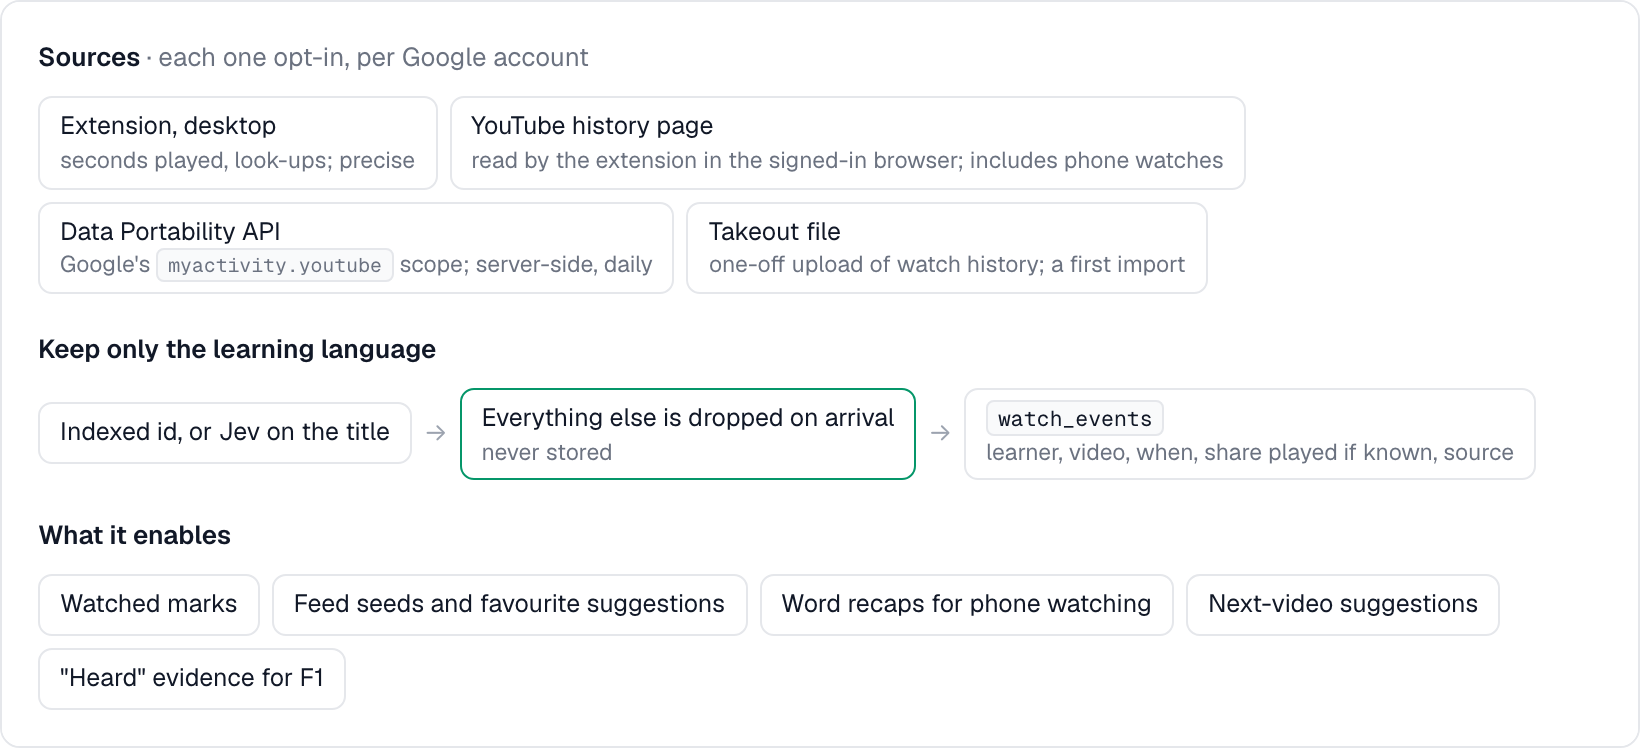
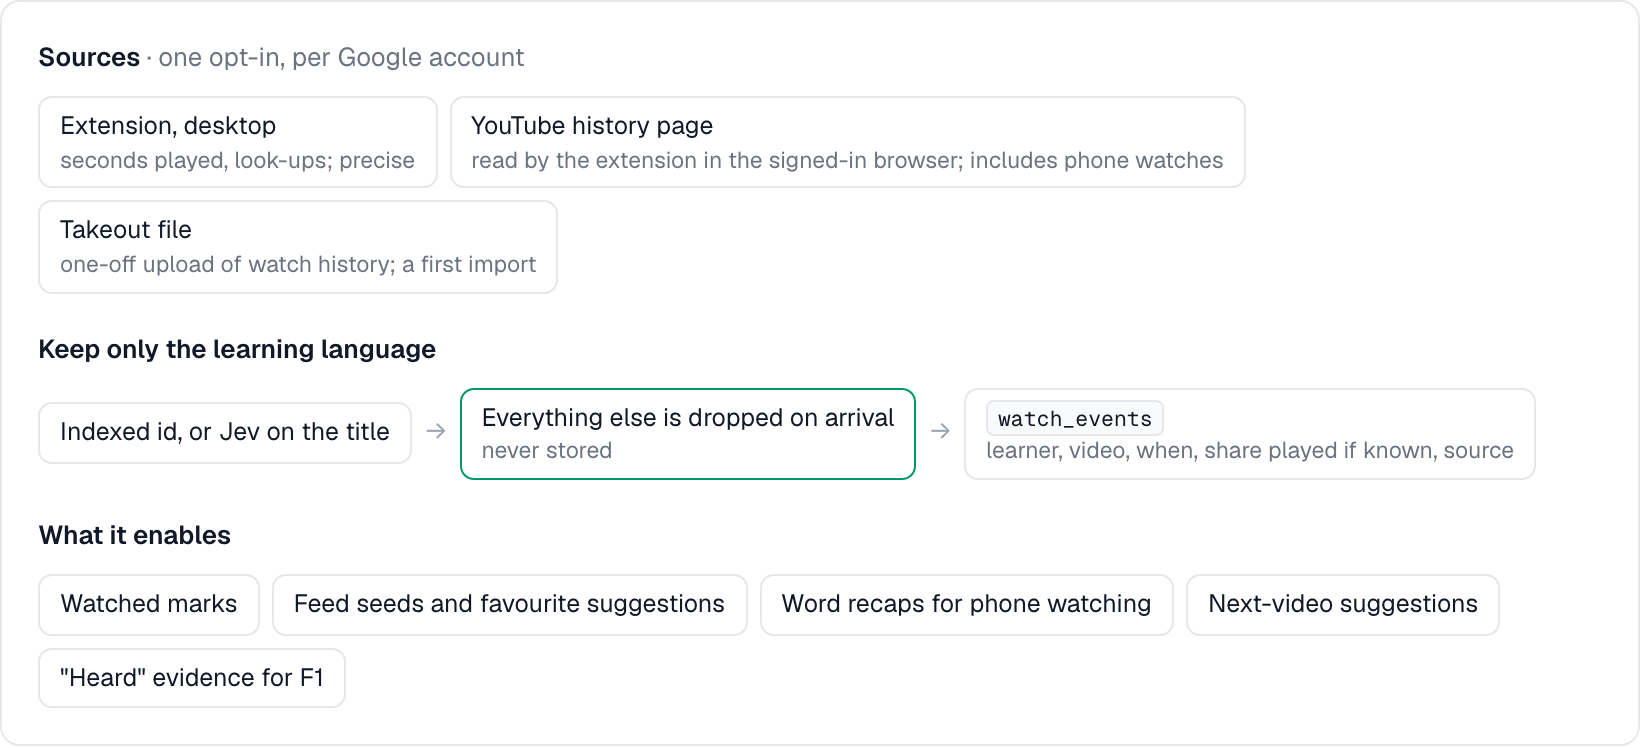
Revise the YouTube plan after the UX audit
- Coverage counts every word: distinct-word coverage falls with video length
  (rank correlation -0.46 to -0.58), every-word coverage doesn't. The
  counts-matrix change is spelled out with its measured cost (22 -> 33 MB,
  ~7 ms) and ships alone in week 1.
- No fit bands for now: badges show heard coverage, lists sort highest first.
- F1's heard evidence comes from exposure logging (PR 109).
- The Data Portability API is ruled out.
- Indexing progress shows on the channel's Langfour tab, not the button.
- Recaps are one row of words and one button.
- Pace: timings are kept from now on (feat/caption-timings).
- F1 and F2 mockups redrawn in the app's style.

diff --git a/docs/plans/youtube-plan.md b/docs/plans/youtube-plan.md
@@ -1,6 +1,6 @@
 # Langfour on YouTube
 
-Status as of 2026-10-31: plan, nothing built. People learn a language on YouTube by watching
+Status as of 2026-11-01: plan, nothing built; revised after the UX audit of this PR. People learn a language on YouTube by watching
 hours of videos they can mostly follow, and they stay for channels they love. This plan makes
 Langfour good at both: it knows which videos you can follow, learns which channels you love,
 and stays out of the way while you watch. Mockups and charts are in `docs/plans/youtube-plan/`.
@@ -52,6 +52,23 @@ for beginners, the people who most need to hear "you can watch this".
 20 picks are 98.8% heard, have a median of 5 new words and run 4.9 minutes. The 95–98% band holds
 over half the corpus for that learner, at a median of 45 new words and 12.9 minutes.
 
+**Why every word, not distinct words.** Distinct-word coverage punishes length: a longer video
+collects more rare words said once, so it scores lower even though each minute is just as easy.
+At every vocabulary size, every-word coverage is the same for short and long videos:
+
+| Learner | Rank correlation with video length: distinct / every word | Shortest quarter of videos | Longest quarter |
+|---|---|---|---|
+| 1,000 words | −0.58 / 0.01 | 75.0% / 88.7% | 62.2% / 88.8% |
+| 3,000 words | −0.46 / −0.02 | 89.8% / 95.7% | 83.2% / 95.5% |
+| 5,000 words | −0.43 / −0.04 | 94.4% / 97.7% | 90.2% / 97.5% |
+
+That is why the app's top picks are short clips. The comprehension thresholds in the research
+(95% to follow, 98% to follow comfortably) are also counted over running words. So the % becomes
+every-word coverage, and "N new" stays a count of *distinct* unknown words, because that is how
+many words there are to learn. One trade-off is that a single unknown word said often weighs heavily: for a 3,000-word
+learner, in 5% of videos one word makes up a quarter or more of what they don't understand. That
+is honest, because they miss it every time, and it is what core words (8) fix.
+
 **With real accounts.** Real learners don't know exactly the top N words, so the same numbers on
 the accounts with real Spanish vocabulary:
 
@@ -80,25 +97,48 @@ Other things that hold today:
 
 ## 1. Known words that stay honest
 
-*Fix the basics · M · needs 2 for the "heard" evidence*
+*Fix the basics · M · ships alone, first*
 
 Every number in Langfour depends on knowing which words you know. Words stuck in "learning" make
 every video look harder than it is, so recommendations come out too easy and the badges discourage.
+The stuck words aren't one account's problem: 15+ accounts have 20–123 of the top 500 words in
+learning, never reviewed.
 
 ![A one-time prompt offering stuck common words as known](youtube-plan/f1-known-words.png)
 
-*A one-time prompt in the extension popup and on the Vocabulary page. Words you've looked up stay
-unticked. The "heard" counts are illustrative; feature 2 is what collects them.*
+*A filter on the Vocabulary page's Learning table, with its checkboxes and the dark pill; the
+extension popup links to it once. Words you've looked up stay unticked. The "heard" counts come from exposure logging: since PR 109 the extension records each
+learning word once per video when its caption is on screen, and once per page in the reader.*
 
 - **One-time cleanup:** learning words in the top 500 by corpus frequency that were never reviewed
   are offered as known.
-- **Ongoing rule:** a learning word heard in 10 or more watched videos without a look-up becomes a
-  suggestion, never an automatic change. Accepting goes through the same path as the MCP's
-  `set_word_status`.
-- **Coverage on words heard:** the matrix stores the count instead of 1. The transcripts already
-  have counts, the number of non-zeros doesn't change, and every percentage in the app becomes the
-  blue line.
+- **Ongoing rule:** a learning word seen in 10 or more videos (`word_events` exposure rows) without
+  a look-up becomes a suggestion, never an automatic change. Accepting goes through the same path
+  as the MCP's `set_word_status`. "Without a look-up" needs look-ups logged, which nothing writes
+  yet.
+- **Onboarding:** suggest a Google account used only for Spanish now (the first lever in 6); it costs copy,
+  not code.
 - The same screen can show the known form-versus-root mismatches (`caía`/`caer`).
+
+**Coverage on words heard.** The matrix stores each word's count instead of 1 (the reasons are in
+section 0). It is not a one-line change, but it stays small and contained in `recommender.py`:
+
+1. Build the matrix as `int16` with counts. Today it is `int8` with `D[i, wid] = 1`, and `+= 1`
+   would overflow: one video says a word 771 times.
+2. Keep a binary view next to it that shares the counts matrix's `indices` and `indptr`, with an
+   `int8` array of ones. `newWords` (distinct unknown words) and `recommend_words_to_learn` (number
+   of videos per word) read the view, so both keep their meaning.
+3. Write `"weights": "counts"` into `document_term_matrix.npz.meta.json`, and require it in both
+   `_try_load_cached_language` and the reuse check in `_create_document_term_matrix`. Today a
+   binary npz with the same shape loads silently.
+4. Repack and upload the corpus in the same release. The tarball carries the transcripts, so an
+   old bundle would rebuild on Koyeb at boot rather than serve wrong numbers, but slowly.
+5. Add a test with a repeated word to `test_recommender.py`.
+
+Measured on the full corpus: memory for the matrix goes from 22.3 MB to about 33 MB (28.6 for the
+counts, 4.8 for the view), and the two products per request take about 7 ms. With `int32` counts,
+memory would be 43 MB. Row and column sums already come back as `int64`, so totals can't
+overflow.
 
 **Measure:** median heard coverage of the videos people finish. With honest data it should sit
 near 95%.
@@ -113,24 +153,36 @@ watching.
 
 ![Watch signal sources, filter and uses](youtube-plan/f2-sources.png)
 
-*Four ways to learn what someone watched, from most precise to most complete. Everything outside
+*Three ways to learn what someone watched, from most precise to most complete. Everything outside
 the learning language is dropped on arrival and never stored.*
 
 | Source | What it gives | Limits |
 |---|---|---|
 | Extension on desktop | Seconds actually played, look-ups | Desktop only |
 | `youtube.com/feed/history`, read by the extension with the learner's own sign-in | Every watch on any device; the red progress bar gives a rough share watched | Runs only when the desktop browser is open |
-| Google's Data Portability API, scope `dataportability.myactivity.youtube` | YouTube activity, server-side, without a desktop | Restricted scope, so Google's app verification; consent lasts 30 or 180 days; one export per 24 h; supported countries still to check |
 | Google Takeout watch-history file | A one-off first import | Manual upload |
 
-The YouTube Data API has returned no watch history since 2016 (the `HL` playlist is empty), so the
-Data Portability API is the only official server-side route.
+The YouTube Data API has returned no watch history since 2016 (the `HL` playlist is empty).
+Google's Data Portability API could fetch history server-side, but it is ruled out: its restricted
+scope needs Google's app review and a yearly security re-check, and consent expires after 30 or
+180 days. So phone watching reaches Langfour only through the history page, whenever the desktop
+browser is open.
 
 ![Per-account approval and a recap of phone watching](youtube-plan/f2-approval-and-recap.png)
 
-*Left: the per-account approval. Right: a recap of phone watching on the Practice page and in the
-extension popup the next day. Kept words go to reviews (or RemNote) with a line from the video as
-context.*
+*Left: the per-account approval. Right: the recap of phone watching, on the Practice page and in
+the extension popup the next day.*
+
+The recap has to be simple and fast: one glance, at most one tap, never a chore.
+
+- One line on what was watched, the new words in a single comma-separated row, and one button that
+  adds them all. Tapping a word drops it. No per-word Keep/Skip, no questions about learning words.
+- Learning words that came up need no decision: they count as exposure, like caption words on
+  desktop.
+- Only words that came up in at least two of the videos, or three times or more, up to 8. With
+  none, there is no recap.
+- Ignoring it is fine. It is replaced the next day, and nothing piles up.
+- Added words go to reviews (or RemNote) with a line from the video as context.
 
 - 70% played on desktop marks a video watched and replaces the manual "Hide & mark as seen".
 - A `watch_events` table: learner, video, watched at, share played when known, source. Own rows
@@ -147,8 +199,10 @@ minutes and leave. Badges answer that before the click, everywhere on YouTube.
 
 ![YouTube search with fit badges](youtube-plan/f3-fit-badges.png)
 
-*Badges show heard coverage and new words, coloured by band: green 95–98%, amber 90–95%, red below
-90%. The Your level chip dims the rest; unindexed videos show "Add to Langfour" on hover.*
+*Badges show heard coverage and new words; unindexed videos show "Add to Langfour" on hover.
+For now there are no bands and no "too easy" state: the higher the number, the more you'll
+understand, and every list sorts highest first. Bands can come back once completion data shows
+where people actually give up.*
 
 - A content-script observer collects video ids from Home, Search, channel pages and the watch-page
   sidebar as they render. One batched call, `POST /api/videos/fit` with up to 50 ids, returns
@@ -172,6 +226,14 @@ it stays private, and Langfour has indexed a median of 10 videos per channel.
 Langfour tab lists channels that learners at your level also favourited. The one-tap question
 appears after a learner's first few videos from a channel.*
 
+The button is a plain toggle: outline when off, filled when on, like today's Bookmark button.
+Indexing progress is shown, but not on the button. The queue will be processed on the server, so a
+favourited channel's videos arrive within hours, and the progress is real feedback that the
+favourite did something. It lives on the channel's Langfour tab, phrased as what the learner gets:
+"34 of 212 videos added · 9 at your level so far". The line updates as videos land and disappears
+once the channel is done. If a channel stalls (no captions, failed downloads), the line drops the
+total rather than showing a number that never moves: "34 videos added".
+
 What a favourite does:
 
 - **For you:** the channel gets the biggest share of your feed (5).
@@ -188,8 +250,17 @@ How a channel is described:
   Spanish videos (`video_quality.py`): A, the grammar level (A1–C1); C, content in the words; D,
   developed thought; E, transferable language. A channel's profile is the median of its videos, so
   it covers the whole corpus with no backfill.
+- **Pace, roughly, from what is stored:** words per minute of video (transcript words divided by
+  the video's `length`). It works for every video, captioned or Whispered, and the corpus median is
+  150. It is a rough number: neither path keeps timings. Caption cues arrive with `tStartMs`, but
+  `json3_text` keeps only the text, and Whisper returns plain text per piece. So intros, music and
+  pauses all count as slow speech. Good enough for a fast/slow hint for the existing corpus.
+  Transcripts ingested from now on keep their timings (`cues` and `cueSource` in the processed
+  JSON, on branch `feat/caption-timings`): a caption track's own cues, or Whisper's 15–28 s
+  pieces. Speaking rate is words over the time the cues cover, with overlaps merged, since
+  automatic tracks roll. The same cues give clip times for moment cards.
 - **From learners:** "Yes, clear / Too fast / Hard accent", asked after a learner's first few
-  videos from a channel. The only signal on pronunciation and pace, which a transcript can't show.
+  videos from a channel. The only signal on pronunciation and accent.
 - **Country:** from `channels.list` (1 quota unit).
 
 **Measure:** share of learners with at least one favourite after two weeks, and how much of their
@@ -282,14 +353,14 @@ channel opens up.
 ![Core words card for a channel](youtube-plan/f8-core-words.png)
 
 *Real numbers: a learner with 2,449 known words and the 13 indexed videos from BasiCH. The bars
-count videos they can follow (90% or more heard). Shown on the channel's Langfour tab after a
-favourite, and on a series page in the Library.*
+show how much of the channel's speech they'd understand, now and after the 25 words. Shown on the
+channel's Langfour tab after a favourite, and on a series page in the Library.*
 
 - Core words: unknown words that appear in at least half of a channel's (or series') videos,
   ordered by how often they're spoken, up to 25.
 - It pays off for channels with a narrow topic. Across channels with 12 or more videos, the typical
   gain from 25 words was about 2 points of heard coverage, against 9 for BasiCH and a beading
-  channel. The card only appears when the gain is real, for example 3 more videos you can follow.
+  channel. The card only appears when the gain is real, for example 3 points or more.
 - "Add to my reviews" goes to Langfour's scheduler or RemNote, with a line from the channel as
   context.
 - Netflix and Prime series work the same way from the Library's episodes, which carry series and
@@ -299,11 +370,13 @@ favourite, and on a series page in the Library.*
 
 | Phase | Weeks | Features |
 |---|---|---|
-| Fix the basics | 1–3 | 1 counts in the matrix and stuck-word cleanup · 2 desktop watched mark and history-page read · 3 fit badges · 4 Favourite button and queue bump |
+| Honest numbers | 1 | 1 alone: counts in the matrix, stuck-word cleanup, learning-account advice in onboarding |
+| Fix the basics | 2–3 | 2 desktop watched mark and history-page read · 3 fit badges · 4 Favourite button and queue bump |
 | Feed | 3–6 | 5 per-learner feed and Home shelf · 6 labels, feedback and history cleanup · 4 channel profiles and "also love" · 2 recaps of phone watching |
-| Watch and keep | 6–10 | 7 flow panel with autoplay · 8 core words · 2 Data Portability API, if desktop-less learners matter |
+| Watch and keep | 6–10 | 7 flow panel with autoplay · 8 core words |
 
-Honest numbers and the watch signal come first because everything else reads them. The Favourite
+Honest numbers ship alone in week 1 because every other feature reads them, and they help today's
+Videos page right away. The watch signal follows for the same reason. The Favourite
 button ships early so likes are piling up when the feed is built.
 
 ## Later
